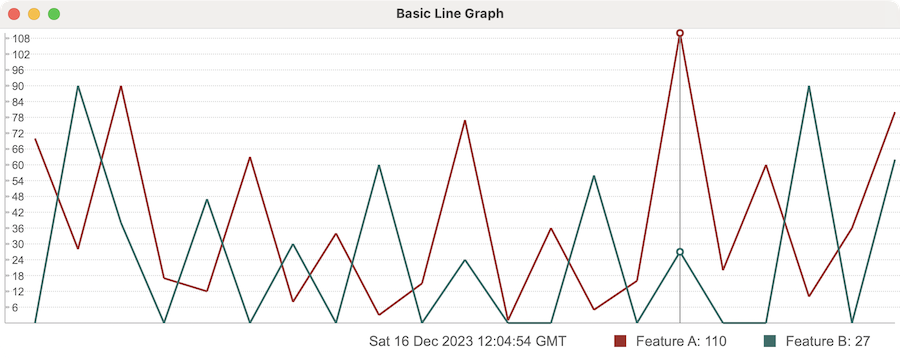
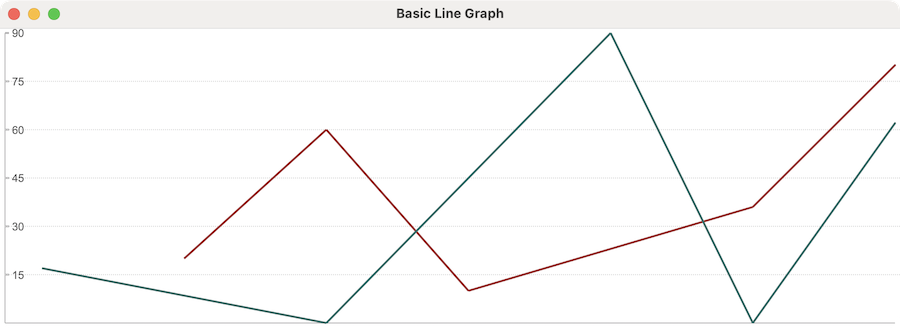
Scale `y` axis when using `values` option to fill up the vertical graph height if all y-axis values are smaller than `1`

diff --git a/lib/glimmer/view/line_graph.rb b/lib/glimmer/view/line_graph.rb
@@ -132,6 +132,7 @@ module Glimmer
         @graph_point_distance_per_line = nil
         @y_value_max_for_all_lines = nil
         @x_resolution = nil
+        @y_resolution = nil
         @x_value_range_for_all_lines = nil
         @x_value_min_for_all_lines = nil
         @x_value_max_for_all_lines = nil
@@ -153,13 +154,17 @@ module Glimmer
         
         @graph_point_distance_per_line ||= lines.inject({}) do |hash, line|
           value = (width - 2.0*graph_padding_width - graph_grid_marker_padding_width) / (line[:y_values].size - 1).to_f
-          value = [value, drawable_width].min
+          value = [value, width_drawable].min
           hash.merge(line => value)
         end
       end
       
-      def drawable_width
+      def width_drawable
         width - 2.0*graph_padding_width - graph_grid_marker_padding_width
+      end
+      
+      def height_drawable
+        height - 2.0*graph_padding_height
       end
       
       def graph_point_distance_for_line(line)
@@ -184,8 +189,15 @@ module Glimmer
         @grid_marker_numbers ||= []
         @graph_stroke_marker_values ||= []
         @mod_values ||= []
+        if lines && lines.all? {|line| line[:values]} && !y_value_max_for_all_lines.nil? && y_value_max_for_all_lines > 1
+          return
+        end
         grid_marker_points.each_with_index do |marker_point, index|
-          @grid_marker_number_values[index] ||= (grid_marker_points.size - index).to_i
+          @grid_marker_number_values[index] ||= begin
+            value = (grid_marker_points.size - index).to_i
+            value = y_value_max_for_all_lines if !y_value_max_for_all_lines.nil? && y_value_max_for_all_lines.to_i != y_value_max_for_all_lines && grid_marker_points.size == 1
+            value
+          end
           grid_marker_number_value = @grid_marker_number_values[index]
           @grid_marker_numbers[index] ||= (grid_marker_number_value >= 1000) ? "#{grid_marker_number_value / 1000}K" : grid_marker_number_value.to_s
           grid_marker_number = @grid_marker_numbers[index]
@@ -215,7 +227,7 @@ module Glimmer
               stroke graph_stroke_marker_line
             }
           end
-          if grid_marker_number_value % mod_value == comparison_value
+          if grid_marker_number_value % mod_value == comparison_value || grid_marker_number_value != grid_marker_number_value.to_i
             grid_marker_number_width = estimate_width_of_text(grid_marker_number, grid_marker_number_font)
             text(marker_point[:x] + 4 + 3, marker_point[:y] - 6, grid_marker_number_width) {
               string(grid_marker_number) {
@@ -229,10 +241,10 @@ module Glimmer
       
       def grid_marker_points
         if @grid_marker_points.nil?
-          graph_max = [y_value_max_for_all_lines, 1].max
+          graph_y_max = [y_value_max_for_all_lines, y_value_max_for_all_lines.between?(0, 1) ? y_value_max_for_all_lines : 1].max
           current_graph_height = (height - graph_padding_height * 2)
-          division_height = current_graph_height / graph_max
-          @grid_marker_points = graph_max.to_i.times.map do |marker_index|
+          division_height = current_graph_height / graph_y_max
+          @grid_marker_points = graph_y_max.ceil.times.map do |marker_index|
             x = graph_padding_width
             y = graph_padding_height + marker_index * division_height
             {x: x, y: y}
@@ -280,10 +292,10 @@ module Glimmer
         if @points[graph_line].nil?
           y_values = graph_line[:y_values] || []
           y_values = y_values[0, max_visible_point_count(graph_line)]
-          graph_max = [y_value_max_for_all_lines, 1].max
+          graph_y_max = [y_value_max_for_all_lines, 1].max
           points = y_values.each_with_index.map do |y_value, index|
             x = width - graph_padding_width - (index * graph_point_distance_for_line(graph_line))
-            y = ((height - graph_padding_height) - y_value * ((height - graph_padding_height * 2) / graph_max))
+            y = ((height - graph_padding_height) - y_value * ((height - graph_padding_height * 2) / graph_y_max))
             {x: x, y: y, index: index, y_value: y_value}
           end
           @points[graph_line] = translate_points(graph_line, points)
@@ -300,9 +312,10 @@ module Glimmer
           x_value_range_for_all_lines
           points = values.each_with_index.map do |(x_value, y_value), index|
             relative_x_value = x_value - x_value_min_for_all_lines
-            stretched_x_value = x_value_range_for_all_lines == 0 ? 0 : relative_x_value.to_f * x_resolution.to_f
-            x = width - graph_padding_width - stretched_x_value
-            y = ((height - graph_padding_height) - y_value * ((height - graph_padding_height * 2) / graph_y_max))
+            scaled_x_value = x_value_range_for_all_lines == 0 ? 0 : relative_x_value.to_f * x_resolution.to_f
+            scaled_y_value = y_value_max_for_all_lines == 0 ? 0 : y_value.to_f * y_resolution.to_f
+            x = width - graph_padding_width - scaled_x_value
+            y = height - graph_padding_height - scaled_y_value
             {x: x, y: y, index: index, x_value: x_value, y_value: y_value}
           end
           # Translation is not supported today
@@ -313,9 +326,15 @@ module Glimmer
         @points[graph_line]
       end
       
-      # this is the multiplier that we must multiply by the relative_x_value
+      # this is the multiplier that we must multiply by the relative x value
       def x_resolution
-        @x_resolution ||= drawable_width.to_f / x_value_range_for_all_lines.to_f
+        @x_resolution ||= width_drawable.to_f / x_value_range_for_all_lines.to_f
+      end
+      
+      # this is the multiplier that we must multiply by the relative y value
+      def y_resolution
+        # TODO in the future, we will use the y range, but today, we assume it starts at 0
+        @y_resolution ||= height_drawable.to_f / y_value_max_for_all_lines.to_f
       end
       
       def x_value_range_for_all_lines

diff --git a/README.md b/README.md
@@ -1,18 +1,18 @@
-# Graphs and Charts 0.1.6 (Alpha)
+# Graphs and Charts 0.1.7 (Alpha)
 ## [Glimmer DSL for LibUI](https://github.com/AndyObtiva/glimmer-dsl-libui) Custom Controls
 [![Gem Version](https://badge.fury.io/rb/glimmer-libui-cc-graphs_and_charts.svg)](http://badge.fury.io/rb/glimmer-libui-cc-graphs_and_charts)
 [![Join the chat at https://gitter.im/AndyObtiva/glimmer](https://badges.gitter.im/AndyObtiva/glimmer.svg)](https://gitter.im/AndyObtiva/glimmer?utm_source=badge&utm_medium=badge&utm_campaign=pr-badge&utm_content=badge)
 
 Graphs and Charts (Custom Controls) for [Glimmer DSL for LibUI](https://github.com/AndyObtiva/glimmer-dsl-libui)
 
-![line graph](/screenshots/glimmer-libui-cc-graphs_and_charts-mac-basic-line-graph.png)
+![line graph](/screenshots/glimmer-libui-cc-graphs_and_charts-mac-basic-line-graph-relative.png)
 
 ## Setup
 
 Add this line to Bundler `Gemfile`:
 
 ```ruby
-gem 'glimmer-libui-cc-graphs_and_charts', '~> 0.1.6'
+gem 'glimmer-libui-cc-graphs_and_charts', '~> 0.1.7'
 ```
 
 Run:
@@ -42,6 +42,53 @@ require 'glimmer/view/line_graph'
 This makes the `line_graph` [Glimmer DSL for LibUI Custom Control](https://github.com/AndyObtiva/glimmer-dsl-libui#custom-components) available in the Glimmer GUI DSL.
 You can then nest `line_graph` under `window` or some container like `vertical_box`. By the way, `line_graph` is implemented on top of the [`area` Glimmer DSL for LibUI control](https://github.com/AndyObtiva/glimmer-dsl-libui#area-api).
 
+Note that you can use in absolute mode or relative mode for determining x-axis values starting from newest point to oldest point along the time x-axis:
+- Absolute Mode: pass `values` which maps x-axis values to y-axis values
+- Relative Mode: pass `y_values`, `x_value_start`, and `x_interval_in_seconds` (x-axis values are calculated automatically in a uniform way from `x_value_start` deducting `x_interval_in_seconds`)
+
+**Absolute Mode:**
+
+It supports any `Numeric` y-axis values in addition to `Time` x-axis values.
+
+```ruby
+      @line_graph = line_graph(
+        width: 900,
+        height: 300,
+        lines: [
+          {
+            name: 'Stock 1',
+            stroke: [163, 40, 39, thickness: 2],
+            values: {
+              Time.new(2030, 12, 1) => 80,
+              Time.new(2030, 12, 2) => 36,
+              Time.new(2030, 12, 4) => 10,
+              Time.new(2030, 12, 5) => 60,
+              Time.new(2030, 12, 6) => 20,
+            },
+            x_value_format: -> (time) {time.strftime("%a %d %b %Y %T GMT")},
+          },
+          {
+            name: 'Stock 2',
+            stroke: [47, 109, 104, thickness: 2],
+            values: {
+              Time.new(2030, 12, 1) => 62,
+              Time.new(2030, 12, 2) => 0,
+              Time.new(2030, 12, 3) => 90,
+              Time.new(2030, 12, 5) => 0,
+              Time.new(2030, 12, 7) => 17,
+            },
+            x_value_format: -> (time) {time.strftime("%a %d %b %Y %T GMT")},
+          },
+        ],
+      )
+```
+
+![basic line graph](/screenshots/glimmer-libui-cc-graphs_and_charts-mac-basic-line-graph.png)
+
+**Relative Mode:**
+
+Currently, it only supports `Integer` y-axis values in addition to `Time` x-axis values.
+
 ```ruby
 line_graph(
   width: 900,
@@ -69,13 +116,68 @@ line_graph(
 )
 ```
 
-![basic line graph](/screenshots/glimmer-libui-cc-graphs_and_charts-mac-basic-line-graph.png)
+![basic line graph relative](/screenshots/glimmer-libui-cc-graphs_and_charts-mac-basic-line-graph-relative.png)
 
 Look into [lib/glimmer/view/line_graph.rb](/lib/glimmer/view/line_graph.rb) to learn about all supported options.
 
-Basic Line Graph Example:
+**Basic Line Graph Example:**
 
 [examples/graphs_and_charts/basic_line_graph.rb](/examples/graphs_and_charts/basic_line_graph.rb)
+
+```ruby
+require 'glimmer-dsl-libui'
+require 'glimmer/view/line_graph'
+
+class BasicLineGraph
+  include Glimmer::LibUI::Application
+  
+  body {
+    window('Basic Line Graph', 900, 300) { |main_window|
+      @line_graph = line_graph(
+        width: 900,
+        height: 300,
+        lines: [
+          {
+            name: 'Stock 1',
+            stroke: [163, 40, 39, thickness: 2],
+            values: {
+              Time.new(2030, 12, 1) => 80,
+              Time.new(2030, 12, 2) => 36,
+              Time.new(2030, 12, 4) => 10,
+              Time.new(2030, 12, 5) => 60,
+              Time.new(2030, 12, 6) => 20,
+            },
+            x_value_format: -> (time) {time.strftime("%a %d %b %Y %T GMT")},
+          },
+          {
+            name: 'Stock 2',
+            stroke: [47, 109, 104, thickness: 2],
+            values: {
+              Time.new(2030, 12, 1) => 62,
+              Time.new(2030, 12, 2) => 0,
+              Time.new(2030, 12, 3) => 90,
+              Time.new(2030, 12, 5) => 0,
+              Time.new(2030, 12, 7) => 17,
+            },
+            x_value_format: -> (time) {time.strftime("%a %d %b %Y %T GMT")},
+          },
+        ],
+      )
+      
+      on_content_size_changed do
+        @line_graph.width = main_window.content_size[0]
+        @line_graph.height = main_window.content_size[1]
+      end
+    }
+  }
+end
+
+BasicLineGraph.launch
+```
+
+![basic line graph](/screenshots/glimmer-libui-cc-graphs_and_charts-mac-basic-line-graph.png)
+
+**Basic Line Graph Relative Example:**
 
 ```ruby
 require 'glimmer-dsl-libui'
@@ -121,7 +223,7 @@ end
 BasicLineGraph.launch
 ```
 
-![basic line graph](/screenshots/glimmer-libui-cc-graphs_and_charts-mac-basic-line-graph.png)
+![basic line graph relative](/screenshots/glimmer-libui-cc-graphs_and_charts-mac-basic-line-graph-relative.png)
 
 Contributing to glimmer-libui-cc-graphs_and_charts
 ------------------------------------------

diff --git a/TODO.md b/TODO.md
@@ -1,5 +1,8 @@
 # TODO
 
+- Support non-Integer values for `line_graph` in relative mode
+- Fix showing of grid marker lines with `values` as non-Integer
+- Support showing grid marker lines with non-Integer values (when y-axis values are all less than 1 subdivide by fractions)
 - Rename lines to series (spawning a new minor version)
 - Reverse the order of y_values data (spawning a new minor version)
 - Support more smart defaults to enable rendering a `line_graph` with the least amount of options possible (like not specifying any `x_value` options at all).

diff --git a/CHANGELOG.md b/CHANGELOG.md
@@ -1,5 +1,9 @@
 # Change Log
 
+## 0.1.7
+
+- Scale `y` axis when using `values` option to fill up the vertical graph height if all y-axis values are smaller than `1`
+
 ## 0.1.6
 
 - Support passing line `values` as a `Hash` map of x-axis values to y-axis values instead of using the combination of `y_values`, `x_value_start`, and `x_interval_in_seconds`
